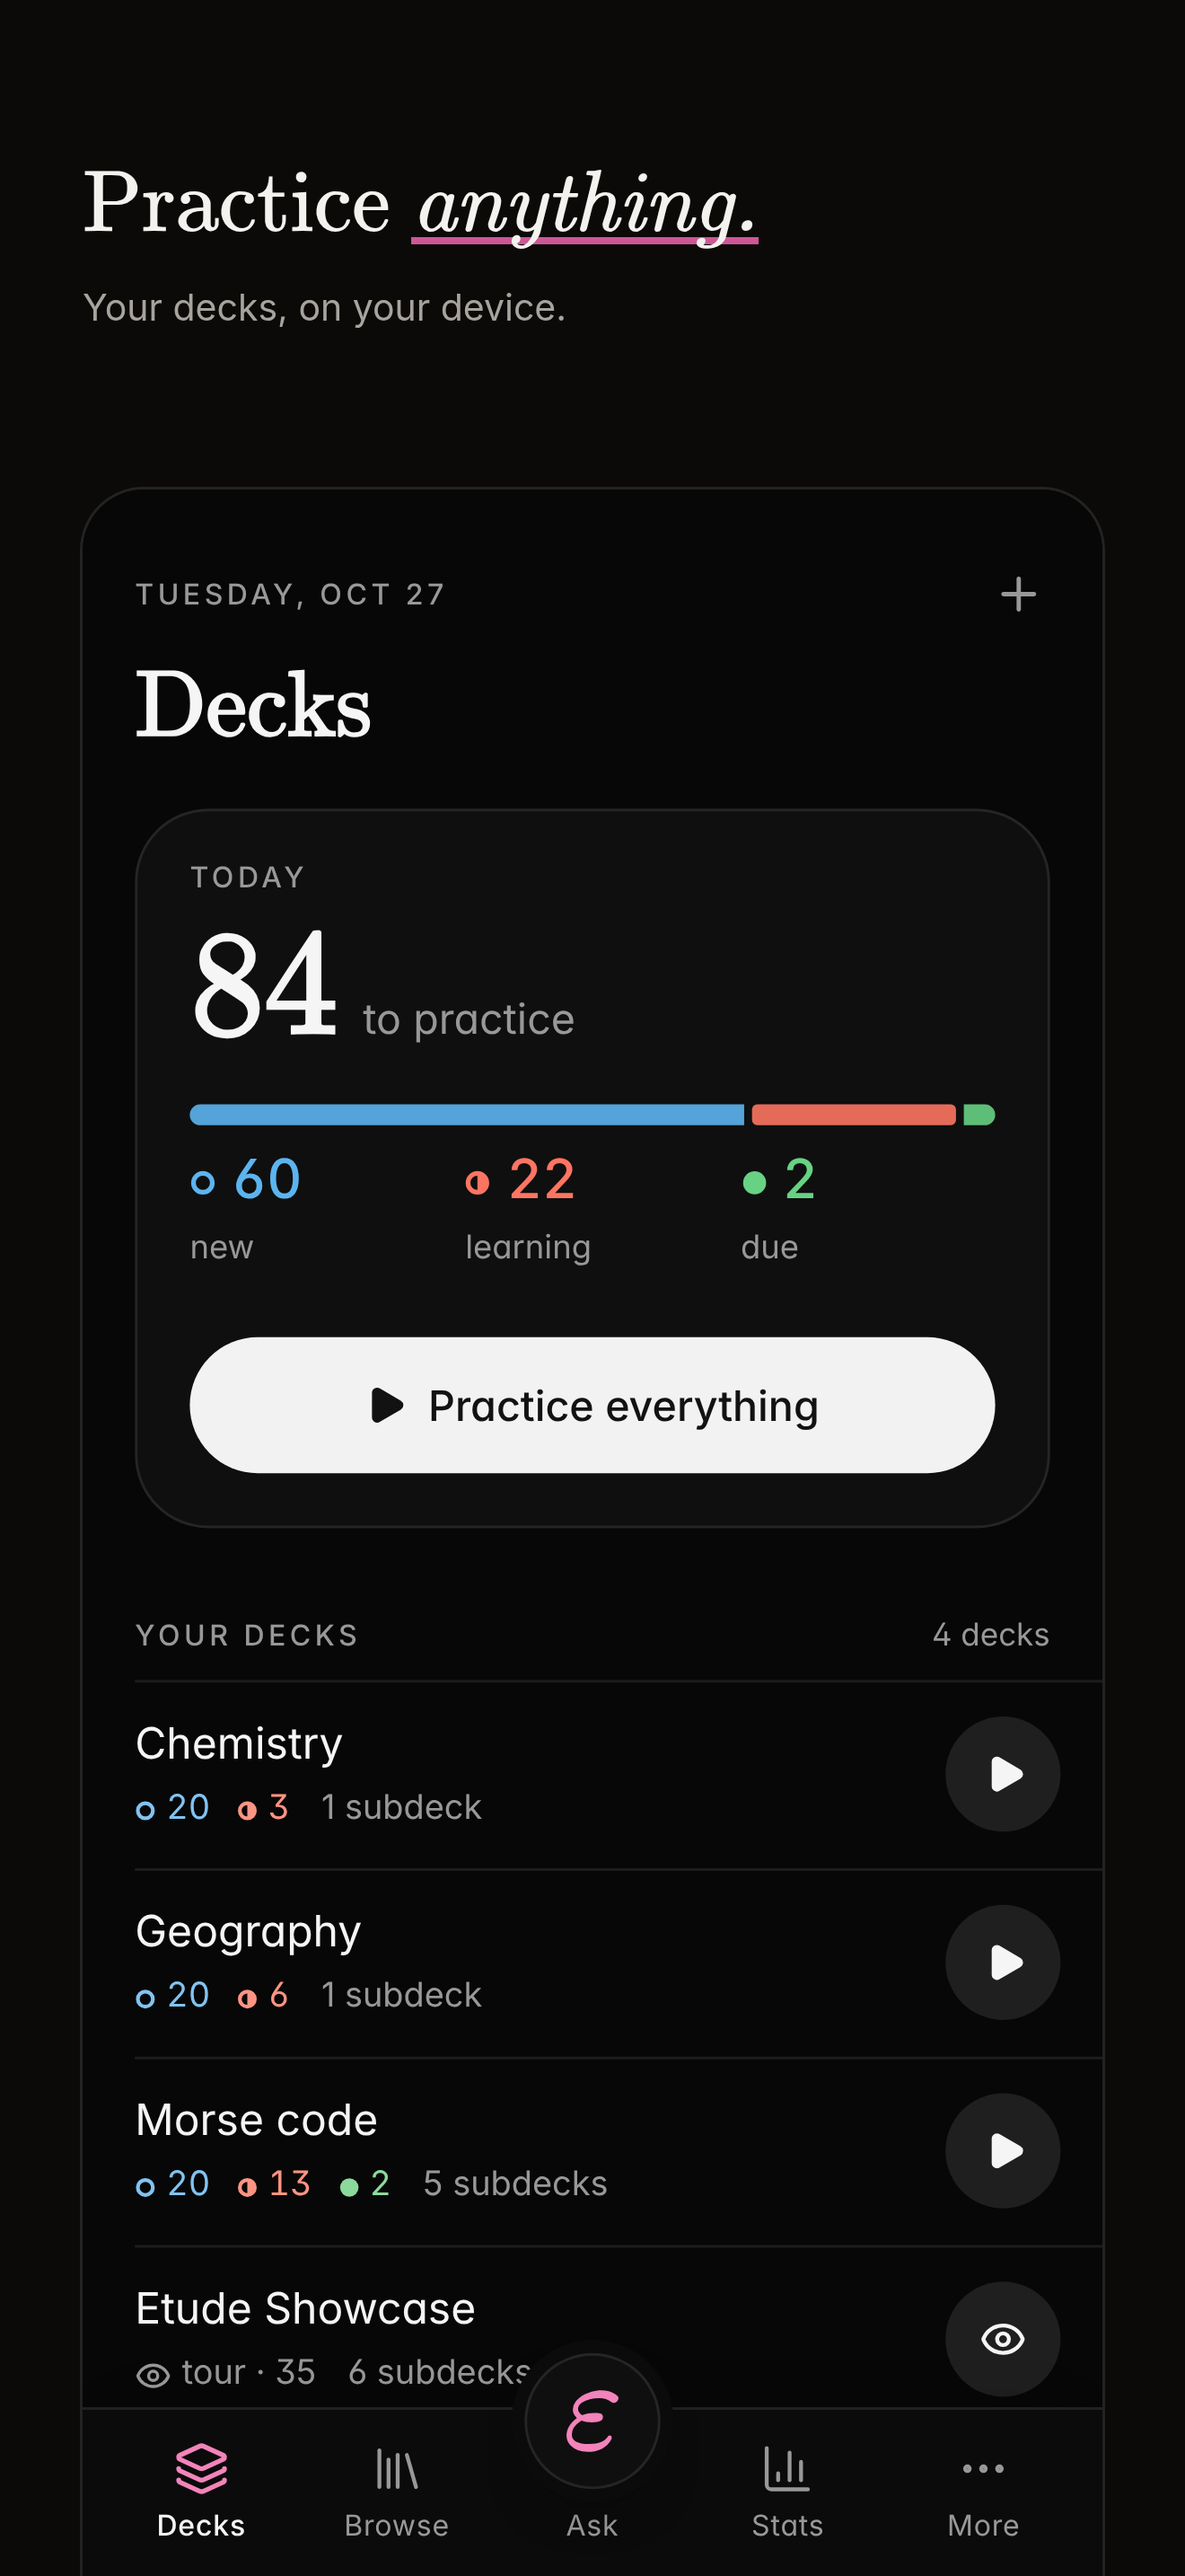
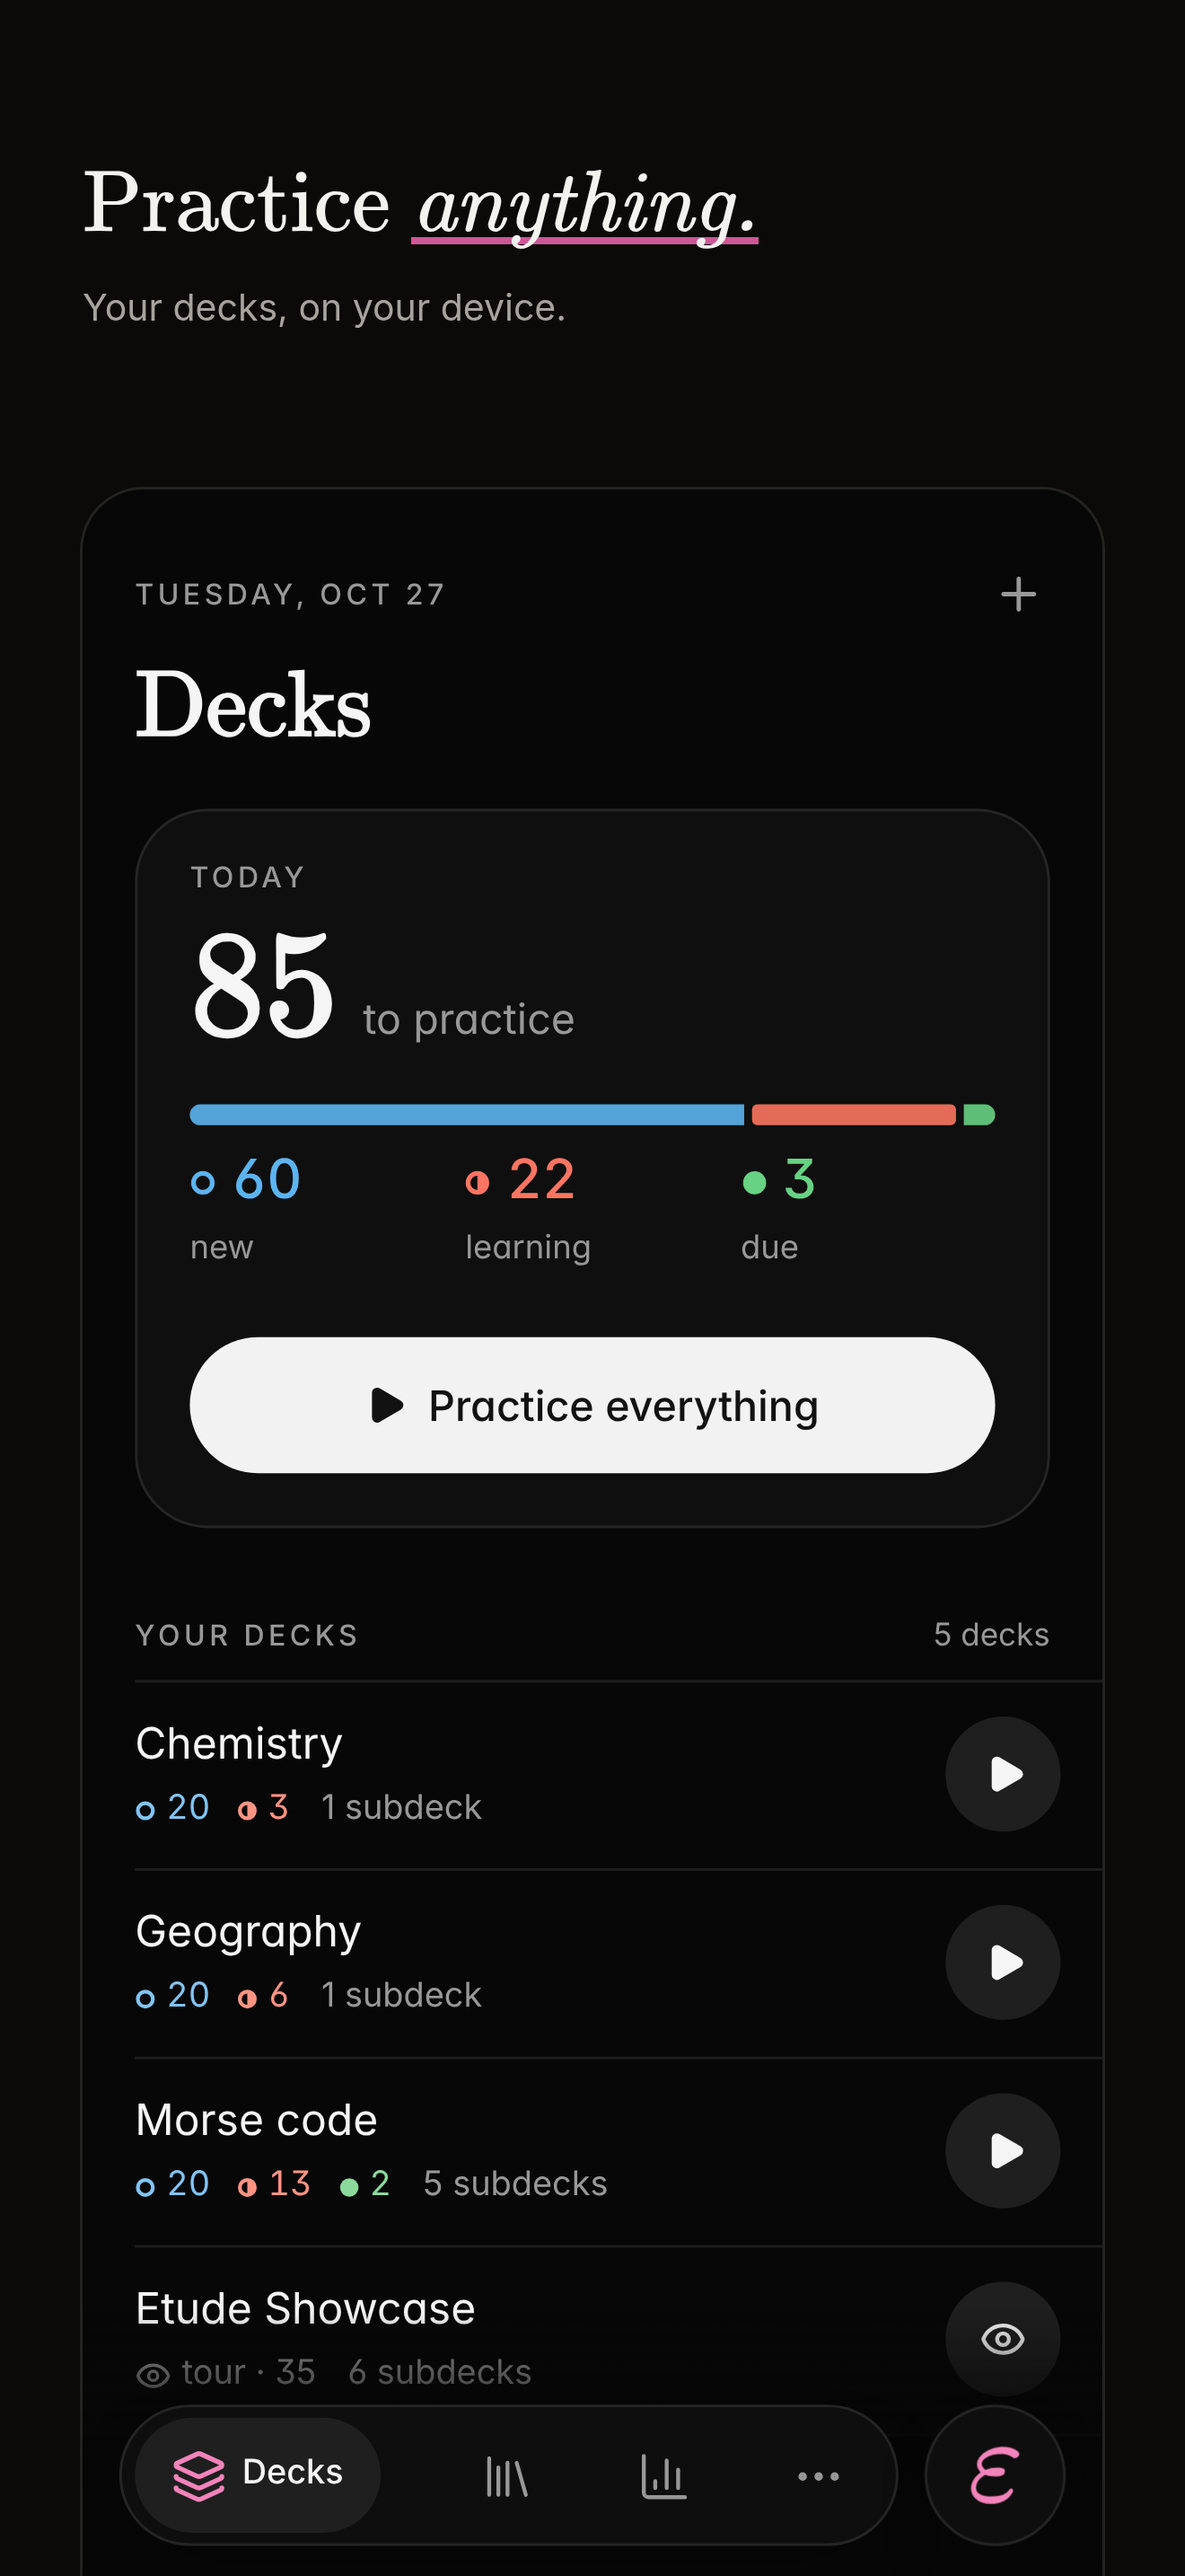
store: iPhone screenshots re-captured with the floating tab bar; map caption matches the card (name it, not tap it)

diff --git a/store/listing.md b/store/listing.md
@@ -82,7 +82,7 @@ The first version of Etude for Android.
 The captions are part of the images in `store/screenshots/`. In order:
 
 1. Practice *anything.* Your decks, on your device.
-2. Cards that are *small apps.* Tap the country on a real map.
+2. Cards that are *small apps.* Name the country on a real map.
 3. Find it on a *blank table.* The periodic table, one cell at a time.
 4. Tap it out. *Get graded.* Morse, music, code, maths and more.
 5. See what you *remember.* FSRS schedules every review.
